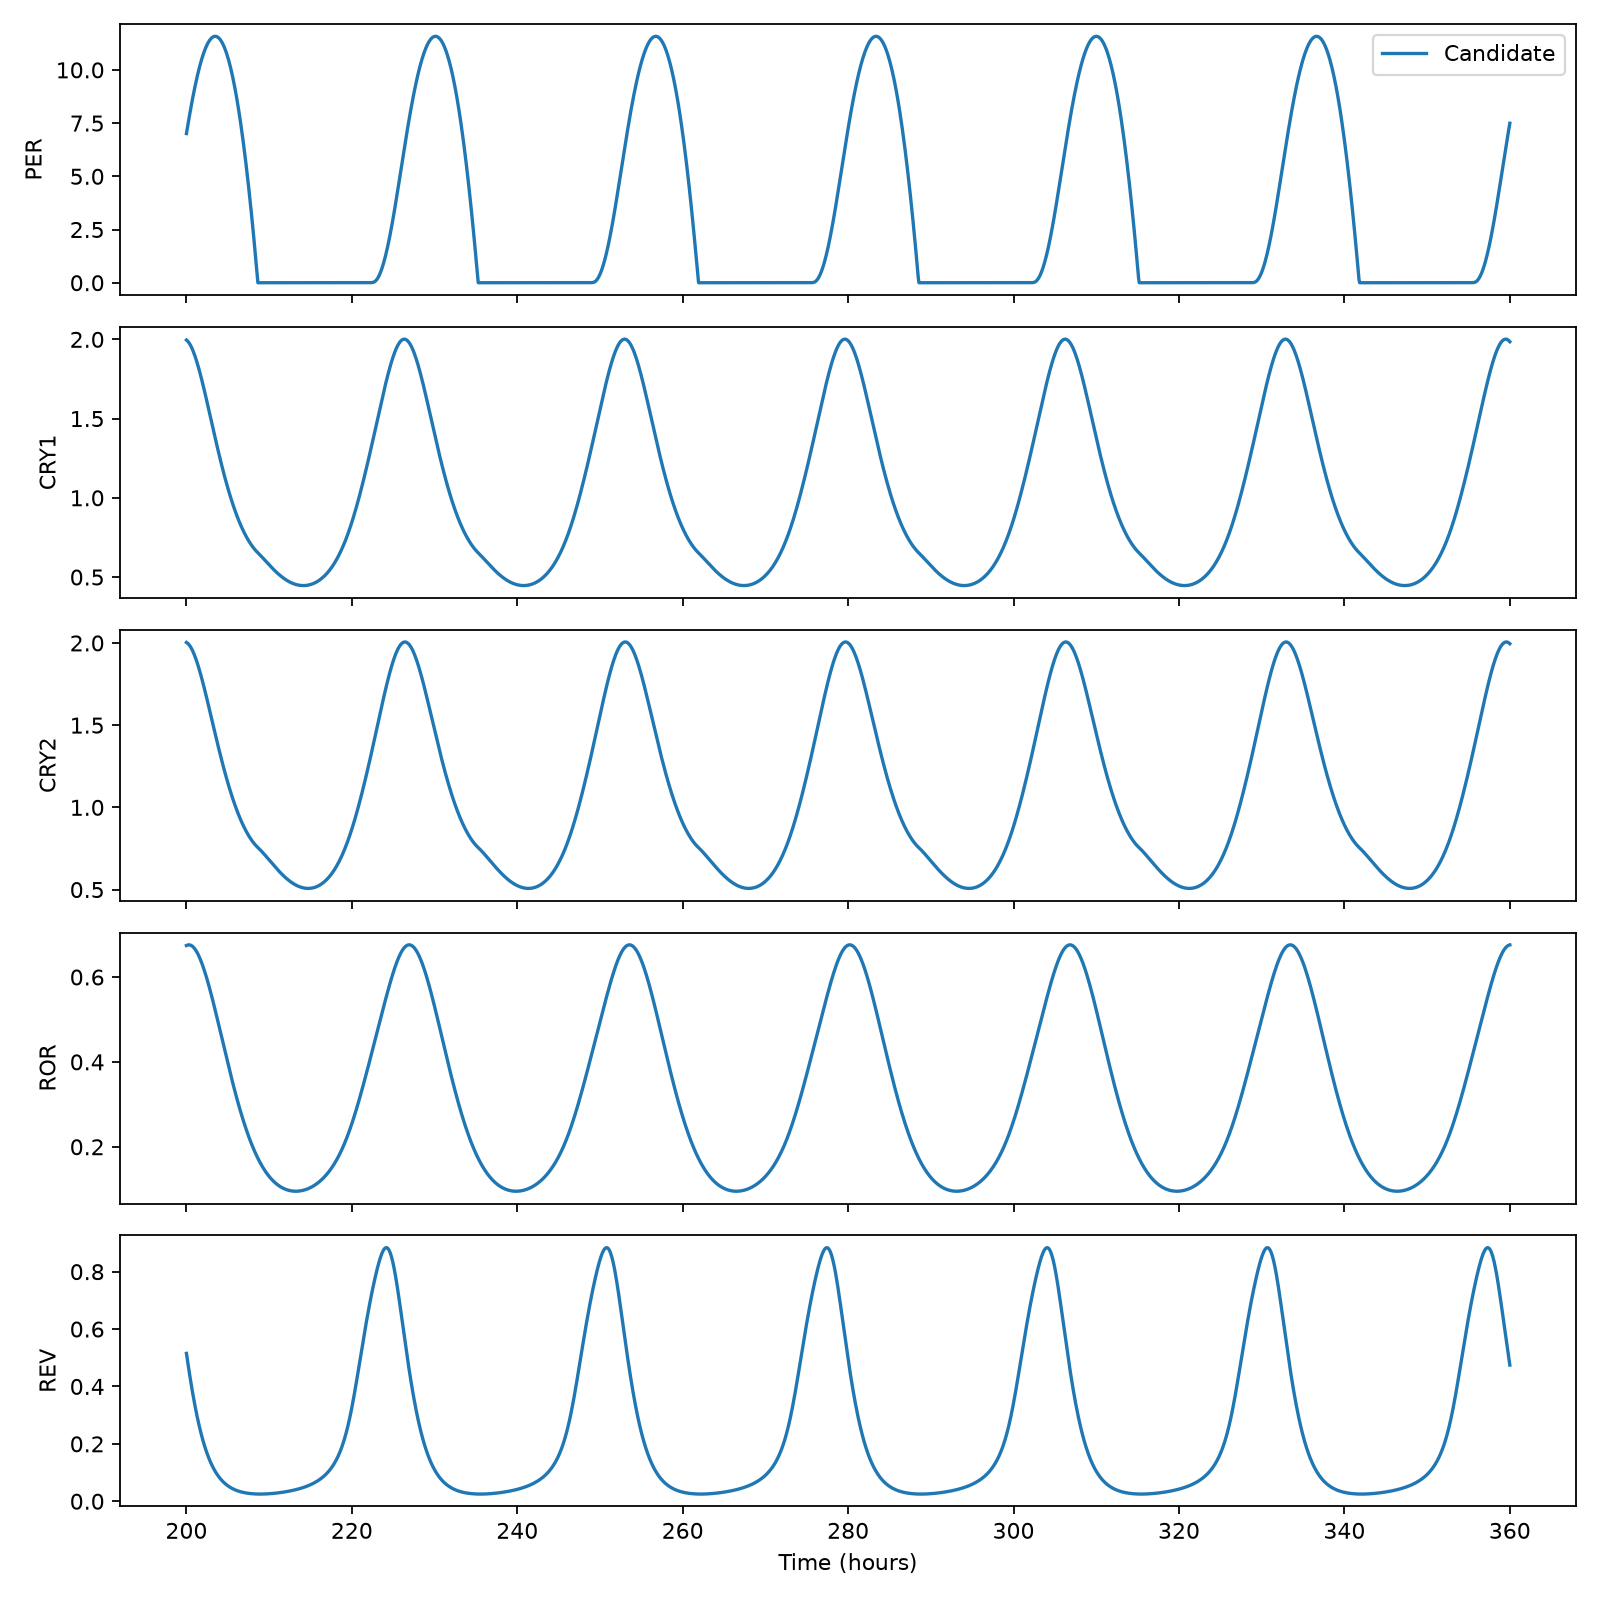
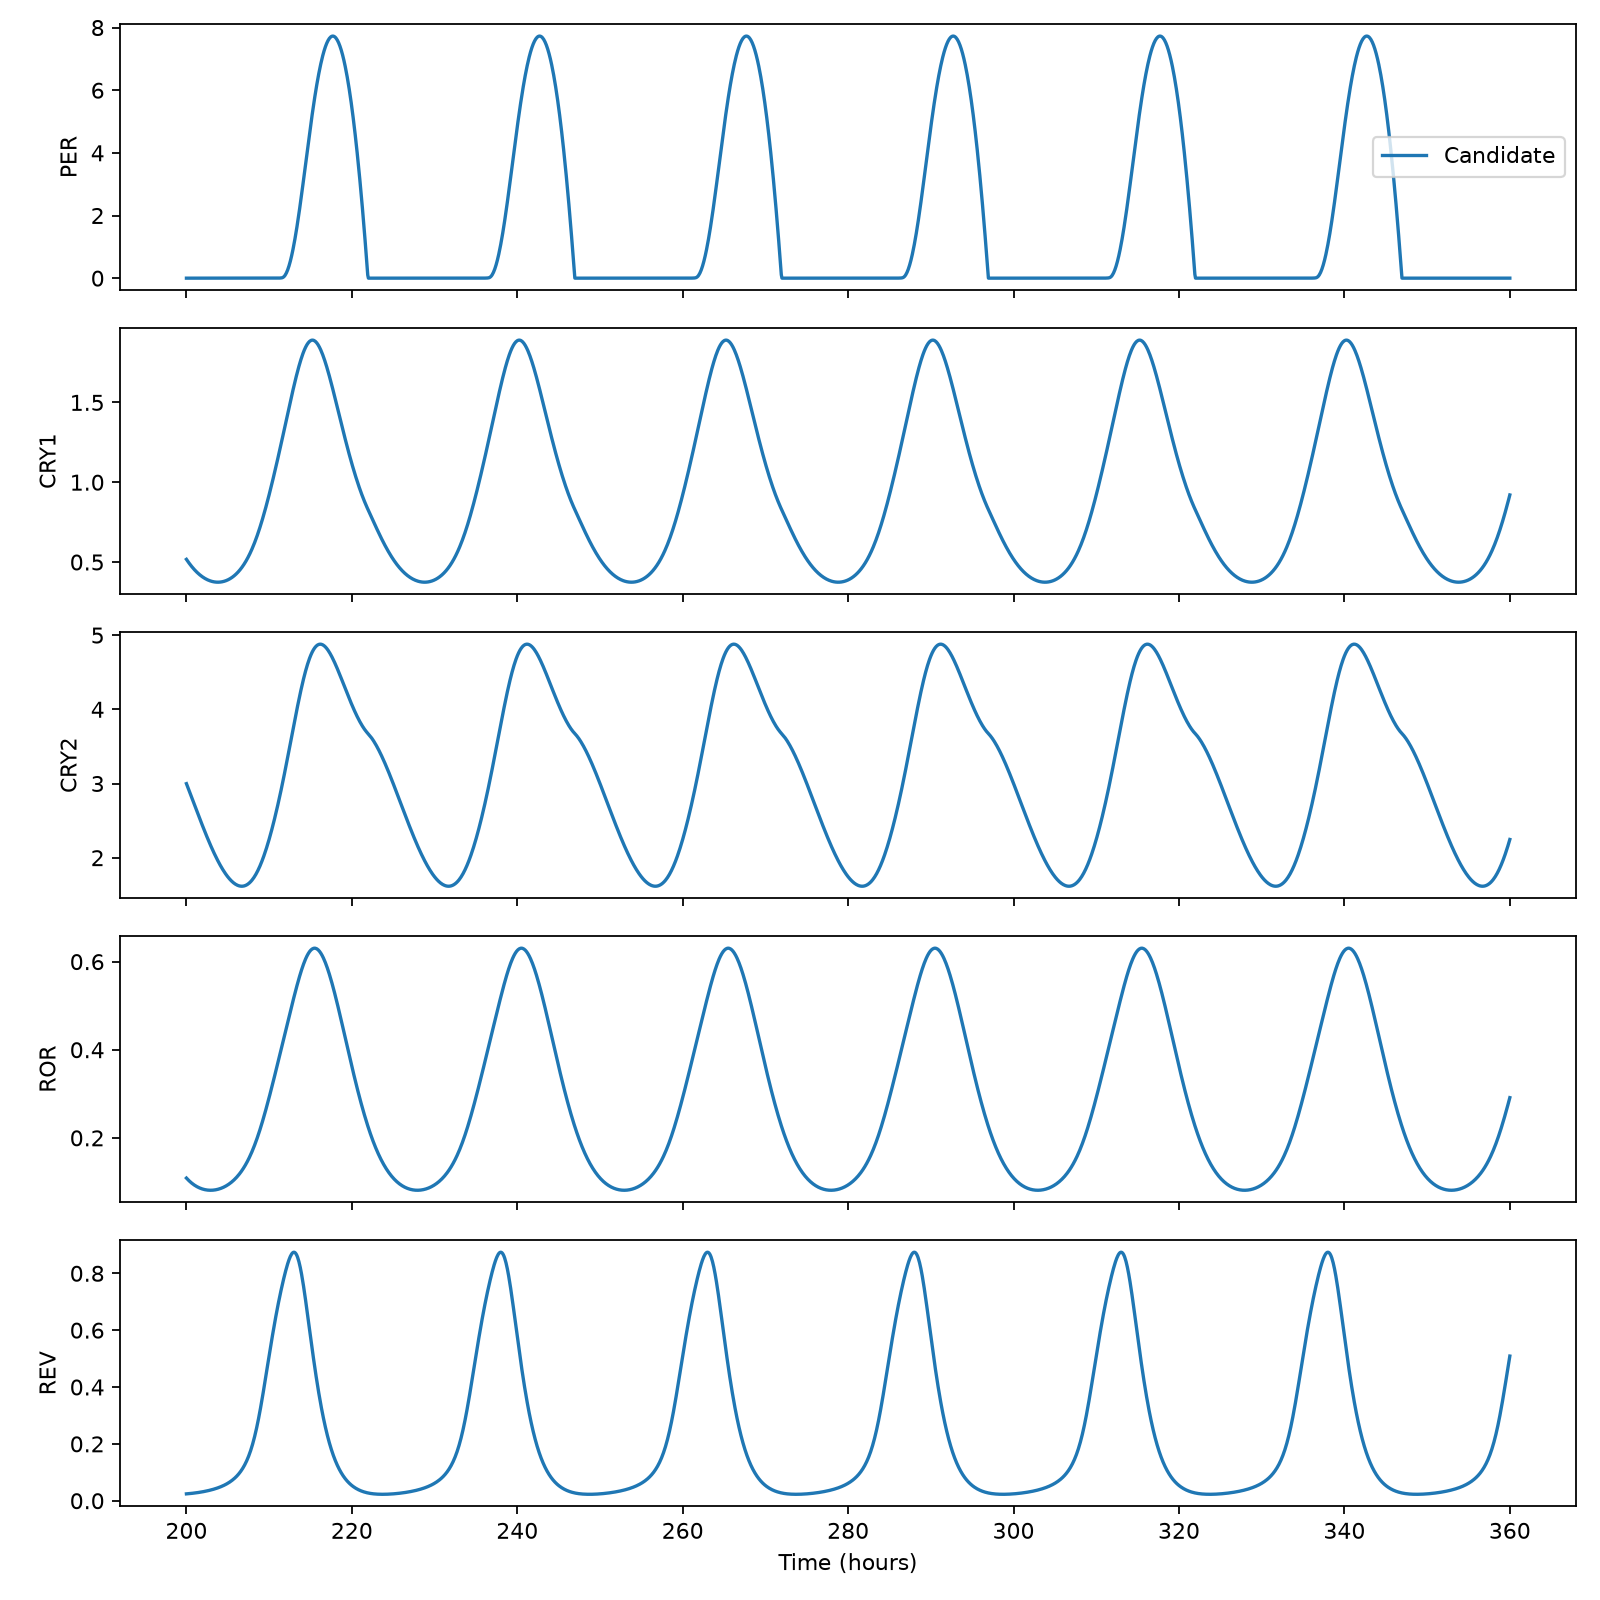
finished challenge

diff --git a/challenge.py b/challenge.py
@@ -5,9 +5,36 @@ from challenge_utils import (
     evaluate_parameters,  # (parameters) -> objective and components
     plot_model,           # (parameters, filename="challenge_clock.png") -> saves a plot
     print_objective,      # (result, parameters, title) -> prints a formatted report
+    simulate,
 )
 from constants import REPORTER_PARAMETERS, GROUP_INDICES
+from scipy.optimize import differential_evolution
 
+def cost(q, p_rep, indices):
+    p_trial = p_rep.copy()
+    p_trial[indices] = q
+    return evaluate_parameters(p_trial)["objective"]
+
+def candidate(genes, p_rep = REPORTER_PARAMETERS.copy()):
+    indices = gene_indices(genes)
+    bounds = [
+    (0.5 * REPORTER_PARAMETERS[i], 1.5 * REPORTER_PARAMETERS[i])
+    for i in indices
+    ]
+
+    result = differential_evolution(
+        cost, 
+        bounds=bounds,
+        args=(p_rep, indices,),
+        rng=np.random.default_rng(42))
+
+    if not result.success:
+        raise RuntimeError(result.message)
+    
+    p_edit = p_rep.copy()
+    p_edit[indices] = result.x
+
+    return p_edit
 
 
 # Functions imported from challenge_utils:
@@ -45,47 +72,16 @@ if __name__ == "__main__":
     # Keep the reporter reference unchanged.
     p_rep = REPORTER_PARAMETERS.copy()
 
-    # Simulate, measure the period, and evaluate the scalar objective.
-    result = evaluate_parameters(p_rep)
-    print_objective(result, p_rep, "DO NOTHING: REPORTER BASELINE")
-
-    # The following is a bad example for an edit. It includes a small noise edit
-    # on two forbidden entries.
-    rng = np.random.default_rng(1)
-    p_noise = p_rep.copy()
-    p_noise[3:5] *= 1 + rng.normal(0, 0.001, 2)  # vdp and kdp are forbidden.
-    noise_result = evaluate_parameters(p_noise)
-    print_objective(noise_result, p_noise, "RANDOM NOISE: FORBIDDEN PARAMETERS")
-
-    # The following is a legal example, but without much improvement.
-    # The available genes are: PER, CRY1, CRY2, ROR, REV, BMAL.
-    # Let's work with a short vector that contains only the selected genes.
-    GENES = ["CRY1","ROR","BMAL"]
-    indices = gene_indices(GENES)
-    pnew = p_rep[indices].copy()
-    pnew *= 1.1                         # Increase each selected parameter by 10%.
-    p_edit = update_pars(p_rep, pnew, GENES)  # Keep every other entry unchanged
-    
-    # display result and plot solution
-    result = evaluate_parameters(p_edit)  
-    print_objective(result, p_edit, "SINGLE EDIT: SELECTED GENES +10%")
-    plot_model(p_edit)
-
     # This is the part where you would create your own p_edit
     # An outline of how to use gradient descent on a selected gene set is given below
     # The gradient_calculator is the function you would need to write
     # using the ideas from Q3.
-    # GENES = ["CRY1"]
-    # q = p_rep[gene_indices(GENES)].copy()  # Optimize only these gene values
-    # def objective_for_q(q):                 # Every trial obeys the constraint
-    #     p_trial = update_pars(p_rep, q, GENES)
-    #     return evaluate_parameters(p_trial)["objective"]
-    # for iteration in range(steps):
-    #     gradient = gradient_calculator(objective_for_q, q)  # You implement this
-    #     q = q - step_size * gradient
-    # p_edit = update_pars(p_rep, q, GENES)
+    GENES = ["ROR"]
+    p_edit = candidate(GENES)
 
-    result = evaluate_parameters(p_edit)  # Score the final vector after your algorithm.
+    result = evaluate_parameters(p_edit) 
+    print_objective(result, p_edit, "OPTIMIZED CANDIDATE") # Score the final vector after your algorithm.
+    plot_model(p_edit)
     # Check the final score against the assignment threshold (higher is better). 
     score_improvement = result["score_improvement_percent"]  # Percent improvement in the full score J.
     if score_improvement is None:

diff --git a/objective_formulas.md b/objective_formulas.md
@@ -1,0 +1,145 @@
+# Challenge objective formulas
+
+## Objective
+
+$$
+J = \frac{E(\mathbf{p}_{\mathrm{edit}})}{E(\mathbf{p}_{\mathrm{rep}})}
++ C_{\mathrm{genes}}.
+$$
+
+## Recovery error
+
+$$
+E(\mathbf{p}) = \frac{E_T(\mathbf{p})^2 + E_\phi(\mathbf{p})^2}{2},
+$$
+
+$$
+E_T(\mathbf{p}) = \frac{|T(\mathbf{p})-T_{\mathrm{WT}}|}{T_{\mathrm{WT}}},
+\qquad
+E_\phi(\mathbf{p}) = \sqrt{\frac{1}{5}\sum_{i=1}^{5}\delta_i(\mathbf{p})^2}.
+$$
+
+Here, each phase difference $\delta_i$ is measured in cycles, wrapped, and calculated after applying one common phase alignment to the five selected proteins.
+
+## Gene-edit cost
+
+$$
+\begin{aligned}
+C_{\mathrm{genes}} ={}& 0.405 I_{\mathrm{PER}}
++ 0.180 I_{\mathrm{CRY1}}
++ 0.156 I_{\mathrm{CRY2}} \\
+&+ 0.168 I_{\mathrm{ROR}}
++ 0.192 I_{\mathrm{REV}}
++ 0.204 I_{\mathrm{BMAL}}.
+\end{aligned}
+$$
+
+$$
+I_g =
+\begin{cases}
+1, & \text{if any parameter in gene group }g\text{ differs from its reporter value},\\
+0, & \text{otherwise}.
+\end{cases}
+$$
+
+## Fully expanded objective
+
+$$
+\begin{aligned}
+J ={}&
+\frac{
+\left(\dfrac{|T_{\mathrm{edit}}-T_{\mathrm{WT}}|}{T_{\mathrm{WT}}}\right)^2
++ \dfrac{1}{5}\sum_{i=1}^{5}\delta_{i,\mathrm{edit}}^2
+}{
+\left(\dfrac{|T_{\mathrm{rep}}-T_{\mathrm{WT}}|}{T_{\mathrm{WT}}}\right)^2
++ \dfrac{1}{5}\sum_{i=1}^{5}\delta_{i,\mathrm{rep}}^2
+} \\
+&+ 0.405 I_{\mathrm{PER}}
++ 0.180 I_{\mathrm{CRY1}}
++ 0.156 I_{\mathrm{CRY2}} \\
+&+ 0.168 I_{\mathrm{ROR}}
++ 0.192 I_{\mathrm{REV}}
++ 0.204 I_{\mathrm{BMAL}}.
+\end{aligned}
+$$
+
+The factors of $1/2$ in the recovery errors cancel in their ratio. The denominator is fixed by the reporter baseline.
+
+## Multivariable function and gradient
+
+Let $\mathbf{q}=(q_1,\ldots,q_k)$ contain the editable parameters being varied. Construct $\mathbf{p}(\mathbf{q})$ by inserting these values into the reporter vector and leaving all other entries fixed. Define
+
+$$
+f(\mathbf{q}) = J\bigl(\mathbf{p}(\mathbf{q})\bigr).
+$$
+
+For brevity, write $T(\mathbf{q})$ for the resulting period and $\delta_i(\mathbf{q})$ for the aligned, wrapped phase differences. Define the fixed denominator
+
+$$
+D =
+\left(\frac{T_{\mathrm{rep}}-T_{\mathrm{WT}}}{T_{\mathrm{WT}}}\right)^2
++ \frac{1}{5}\sum_{i=1}^{5}\delta_{i,\mathrm{rep}}^2
+= 2E(\mathbf{p}_{\mathrm{rep}}).
+$$
+
+Then
+
+$$
+f(\mathbf{q}) = \frac{1}{D}
+\left[
+\frac{(T(\mathbf{q})-T_{\mathrm{WT}})^2}{T_{\mathrm{WT}}^2}
++ \frac{1}{5}\sum_{i=1}^{5}\delta_i(\mathbf{q})^2
+\right]
++ C_{\mathrm{genes}}(\mathbf{q}).
+$$
+
+Where the period and aligned phases are differentiable and the charged gene set is locally unchanged, the cost is constant. The chain rule gives
+
+$$
+\boxed{
+\frac{\partial f}{\partial q_j}
+= \frac{1}{D}
+\left[
+\frac{2(T(\mathbf{q})-T_{\mathrm{WT}})}{T_{\mathrm{WT}}^2}
+\frac{\partial T}{\partial q_j}
++ \frac{2}{5}\sum_{i=1}^{5}
+\delta_i(\mathbf{q})\frac{\partial\delta_i}{\partial q_j}
+\right].
+}
+$$
+
+Thus the gradient is the vector
+
+$$
+\nabla f(\mathbf{q}) =
+\begin{bmatrix}
+\dfrac{\partial f}{\partial q_1}\\
+\vdots\\
+\dfrac{\partial f}{\partial q_k}
+\end{bmatrix}.
+$$
+
+Equivalently, under the same assumptions,
+
+$$
+\nabla f(\mathbf{q})
+= \frac{1}{D}
+\left[
+\frac{2(T(\mathbf{q})-T_{\mathrm{WT}})}{T_{\mathrm{WT}}^2}\nabla T(\mathbf{q})
++ \frac{2}{5}\sum_{i=1}^{5}\delta_i(\mathbf{q})\nabla\delta_i(\mathbf{q})
+\right].
+$$
+
+### Important limitations
+
+- This is a symbolic chain-rule expression, not a numerical gradient. The period and phase sensitivities depend on the simulated model; the assignment asks you to implement finite-difference estimates.
+- The gene-edit penalty is locally constant away from points where a gene becomes edited or unedited. At such switching points it jumps, so the full objective generally has no ordinary gradient. In particular, the reporter starting vector lies at such a switch for any gene you begin editing.
+- Peak detection, phase wrapping, or loss of oscillations can also prevent smoothness. The expression above applies only where the relevant measurements are differentiable and the score is defined.
+
+## Completion threshold
+
+$$
+J \leq 0.50,
+\qquad
+\text{Improvement (\%)} = 100(1-J).
+$$
